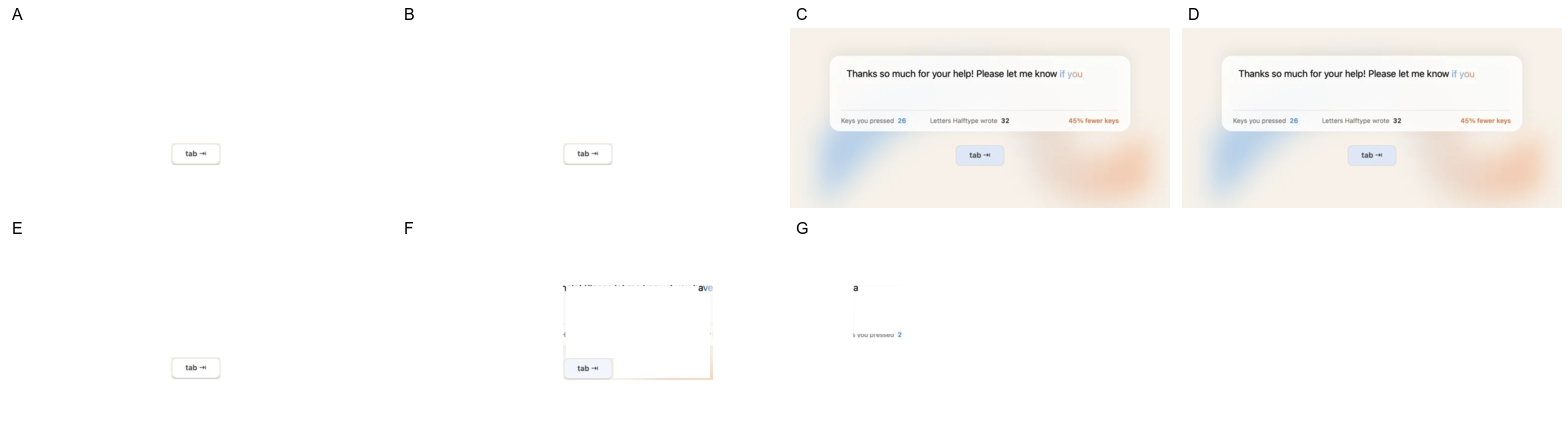
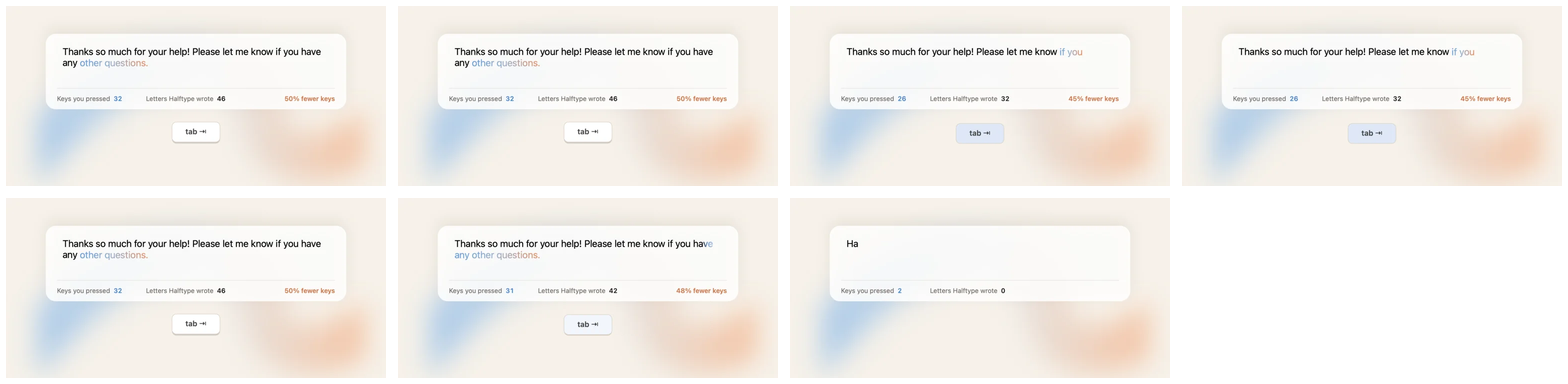
Design: README demo round 3, Tab and Shift-Tab mixed on D's timing (H, I, J): a long suggestion right to the end gets a look, then Shift-Tab and one glint; round 2's sheet redrawn from whole frames

diff --git a/Tests/e2e/E2E.swift b/Tests/e2e/E2E.swift
@@ -254,7 +254,7 @@ enum EndToEnd {
         var glass = false
     }
     /// The README demo's surroundings: the counts so far and whether Tab is down.
-    struct Stage { var keys: Int, wrote: Int, letters: Int, press: CGFloat, glint: CGFloat? = nil, taken: Int = 0 }
+    struct Stage { var keys: Int, wrote: Int, letters: Int, press: CGFloat, glint: CGFloat? = nil, taken: Int = 0, shift: Bool = false }
 
     /// `--shots <dir>`: a real text view with the real ghost view over it, placed by the real layout from what AX would report.
     static func shots(to dir: String) {
@@ -339,10 +339,10 @@ enum EndToEnd {
             Shot(name: name, typed: typed.isEmpty ? " " : typed, ghost: ghost, font: 19, size: CGSize(width: 560, height: 60), dark: false, stage: stage, glass: true)
         }
         // Delays in hundredths; browsers play anything under 2 as 10, so nothing goes below 3.
-        func draw(_ typed: String, _ ghost: String, _ keys: Int, _ wrote: Int, press: CGFloat = 0, glint: CGFloat? = nil, taken: Int = 0, _ delay: Int) {
+        func draw(_ typed: String, _ ghost: String, _ keys: Int, _ wrote: Int, press: CGFloat = 0, glint: CGFloat? = nil, taken: Int = 0, shift: Bool = false, _ delay: Int) {
             frame += 1
             let name = String(format: "en-%04d", frame)
-            onMain { render(shot(name, typed, ghost, Stage(keys: keys, wrote: wrote, letters: typed.count, press: press, glint: glint, taken: taken)), to: dir) }
+            onMain { render(shot(name, typed, ghost, Stage(keys: keys, wrote: wrote, letters: typed.count, press: press, glint: glint, taken: taken, shift: shift)), to: dir) }
             delays += "\(name).png \(delay)\n"
         }
         func drawable(_ typed: String, _ ghost: String) -> Bool { onMain { render(shot("", typed, ghost, Stage(keys: 0, wrote: 0, letters: 0, press: 0)), to: nil) } }
@@ -354,12 +354,15 @@ enum EndToEnd {
         // No pauses of its own: each frame shows the letter and, at once, what the app suggests after it; Tab comes at the typing rhythm.
         // The pace, for docs/design/readme-demo round 2: HALFTYPE_DEMO_PACE="type=4,tab=12,beat=0,after=0,glint=word,key=1" (hundredths;
         // glint word, burst or none). beat waits once a suggestion shows before the first Tab; after waits once a run of Tabs ends.
-        var pace = ["type": "4", "tab": "12", "beat": "0", "after": "0", "glint": "word", "key": "1"]
+        // Round 3: long=N takes a fresh suggestion of N words or more that is right to the end with Shift-Tab, after hold.
+        var pace = ["type": "4", "tab": "12", "beat": "0", "after": "0", "glint": "word", "key": "1", "long": "0", "hold": "40"]
         for pair in (ProcessInfo.processInfo.environment["HALFTYPE_DEMO_PACE"] ?? "").split(separator: ",") {
             let kv = pair.split(separator: "="); if kv.count == 2 { pace[String(kv[0])] = String(kv[1]) }
         }
         let typeDelay = Int(pace["type"]!)!, tabDelay = Int(pace["tab"]!)!, beat = Int(pace["beat"]!)!, after = Int(pace["after"]!)!, glintMode = pace["glint"]!
         showKey = pace["key"] != "0"
+        let long = Int(pace["long"]!)!, hold = Int(pace["hold"]!)!
+        showShift = long > 0
         for target in sentences {
             var text = "", keys = 0, wrote = 0
             var ghost = "", burst = 0
@@ -367,6 +370,21 @@ enum EndToEnd {
             while text.count < target.count {
                 let rest = target.dropFirst(text.count)
                 let word = ghost.isEmpty ? "" : Accept.nextWord(Ghost(remainder: ghost)).text
+                if long > 0, burst == 0, !ghost.isEmpty, rest.hasPrefix(ghost), ghost.split(separator: " ").count >= long {
+                    // A long suggestion, all of it right: a moment to read it, then Shift-Tab takes the lot, and one glint crosses it.
+                    draw(text, ghost, keys, wrote, hold)
+                    let all = ghost
+                    draw(text, ghost, keys, wrote, press: 0.5, shift: true, 3)
+                    text += all; keys += 1; wrote += all.count
+                    ghost = suggestion(text)
+                    let taken = (all as NSString).length
+                    draw(text, ghost, keys, wrote, press: 1, glint: 0.15, taken: taken, shift: true, 4)
+                    draw(text, ghost, keys, wrote, press: 0.4, glint: 0.4, taken: taken, shift: true, 4)
+                    draw(text, ghost, keys, wrote, glint: 0.65, taken: taken, 4)
+                    draw(text, ghost, keys, wrote, glint: 0.9, taken: taken, 4)
+                    if after > 0 { draw(text, ghost, keys, wrote, after) }
+                    continue
+                }
                 if !word.isEmpty, rest.hasPrefix(word) {
                     if burst == 0, beat > 0 { draw(text, ghost, keys, wrote, beat) }
                     text += word; keys += 1; wrote += word.count; ghost = String(ghost.dropFirst(word.count))
@@ -407,7 +425,7 @@ enum EndToEnd {
 
     /// Option F of docs/design/readme-demo in the home window's glass (docs/design/home-glass): cream, the blurred arch, a frosted panel for the
     /// field with the counts so far, and the tab key. A taken suggestion glints across its own words, as in the app.
-    nonisolated(unsafe) static var showKey = true
+    nonisolated(unsafe) static var showKey = true, showShift = false
     final class DemoStage: NSView {
         static let size = CGSize(width: 760, height: 360)
         static let panel = CGRect(x: 80, y: 56, width: 600, height: 150)
@@ -482,7 +500,10 @@ enum EndToEnd {
                 text.draw(at: CGPoint(x: rect.midX - text.size().width / 2, y: rect.midY - text.size().height / 2 + sink - 1))
             }
             let top = Self.panel.maxY + 26
-            if EndToEnd.showKey { key("tab ⇥", CGRect(x: bounds.midX - 48, y: top, width: 96, height: 40), stage.press) }
+            if EndToEnd.showShift {
+                key("⇧ shift", CGRect(x: bounds.midX - 112, y: top, width: 112, height: 40), stage.shift ? stage.press : 0)
+                key("tab ⇥", CGRect(x: bounds.midX + 8, y: top, width: 96, height: 40), stage.press)
+            } else if EndToEnd.showKey { key("tab ⇥", CGRect(x: bounds.midX - 48, y: top, width: 96, height: 40), stage.press) }
         }
     }
 

diff --git a/docs/design/readme-demo/round3.html b/docs/design/readme-demo/round3.html
@@ -1,0 +1,46 @@
+<!doctype html>
+<html lang="en">
+<head>
+<meta charset="utf-8">
+<meta name="viewport" content="width=device-width, initial-scale=1">
+<title>README Demo Keys</title>
+<style>
+  :root { --ink:#16181d; --sub:#6b6f78; --line:#e6e2da; }
+  * { box-sizing: border-box; }
+  body { margin: 0; background: #f4f1ec; color: var(--ink); font: 15px/1.5 -apple-system, BlinkMacSystemFont, sans-serif; }
+  main { max-width: 1600px; margin: 0 auto; padding: 24px 16px 60px; }
+  h1 { font-size: 22px; margin: 0 0 4px; }
+  .q { color: var(--sub); margin: 0 0 12px; }
+  .rec { background: #fff; border: 1px solid var(--line); border-radius: 12px; padding: 12px 16px; margin-bottom: 12px; }
+  .bar { position: sticky; top: 0; z-index: 2; padding: 8px 0; background: #f4f1ec; }
+  .bar button { font: inherit; padding: 6px 14px; border-radius: 8px; border: 1px solid #cfcac0; background: #fff; cursor: pointer; }
+  .grid { display: grid; grid-template-columns: repeat(auto-fill, minmax(min(100%, 460px), 1fr)); gap: 16px; }
+  .card { background: #fff; border: 1px solid var(--line); border-radius: 14px; overflow: hidden; }
+  .card header { padding: 10px 14px 2px; display: flex; gap: 10px; align-items: baseline; }
+  .letter { font-weight: 700; font-size: 19px; } .name { font-weight: 600; }
+  .card img { display: block; width: 100%; aspect-ratio: 760 / 360; }
+  .card p { margin: 0; padding: 8px 14px 14px; color: var(--sub); font-size: 13.5px; }
+  code { font-size: 12px; color: #8a7f72; }
+</style>
+</head>
+<body>
+<main>
+  <h1>README demo: Tab and Shift-Tab</h1>
+  <p class="q">Mixing the two keys on D's timing. John: "What if we mix tabs and shift tabs? So show using tab for some small suggestions, and then shift tab (after a pause) to show accepting a long suggestion?"</p>
+  <div class="rec"><b>Recommendation: H.</b> Quick Tabs for short suggestions, and a long one that is right to the end gets a 0.4 s look, then one Shift-Tab and one glint across the whole phrase. It saves the most keys of any we've tried (69% and 71%) and shows both keys in 12 s. I holds longer before Shift-Tab, which reads more clearly but drags; J also uses Shift-Tab for two-word suggestions, so it happens more often and Tab shows less. Every option is a real render: same model, sentences and counts.</div>
+  <div class="bar"><button id="replay">Replay all together</button></div>
+  <div class="grid">
+    <div class="card"><header><span class="letter">D</span><span class="name">Round 2's D: Tabs only</span></header><img src="round3/D.webp" alt="D"><p>For comparison: a short beat, quick Tabs, one glint per run. 56% and 64% fewer keys. 12 s.</p></div>
+    <div class="card"><header><span class="letter">H</span><span class="name">Shift-Tab for three words or more, 0.4 s look</span></header><img src="round3/H.webp" alt="H"><p>Short suggestions take quick Tabs; "et me know if you" and "ave any other questions." each take one Shift-Tab after a short look. 69% and 71%. 12 s. <code>long=3 hold=40</code></p></div>
+    <div class="card"><header><span class="letter">I</span><span class="name">H with a longer look</span></header><img src="round3/I.webp" alt="I"><p>0.7 s before each Shift-Tab and a longer rest after, so you can read the whole suggestion first. Clearest, but slower. 14 s. <code>long=3 hold=70 after=15</code></p></div>
+    <div class="card"><header><span class="letter">J</span><span class="name">Shift-Tab from two words</span></header><img src="round3/J.webp" alt="J"><p>Shift-Tab whenever two words or more are right, so it's the main move and Tab is rarer. 69% and 74%. 12 s. <code>long=2 hold=45</code></p></div>
+  </div>
+</main>
+<script>
+document.getElementById("replay").onclick = () => {
+  const t = Date.now();
+  document.querySelectorAll(".card img").forEach((img) => { img.src = img.src.split("?")[0] + "?" + t; });
+};
+</script>
+</body>
+</html>

diff --git a/docs/design/readme-demo/README.md b/docs/design/readme-demo/README.md
@@ -21,3 +21,12 @@ John, on the glass demo with rapid Tabs (A): "Yikes that looks messy. Give me so
 - B–G also keep a suggestion while the typing matches it, as the app does; A asked the model again after every letter, so suggestions jumped.
 
 Recommendation: D (`beat=12,tab=14,after=8,glint=burst`).
+
+## Round 3: Tab and Shift-Tab
+
+John: "What if we mix tabs and shift tabs? So show using tab for some small suggestions, and then shift tab (after a pause) to show accepting a long suggestion?"
+
+- `round3.html`: D from round 2 for comparison, and H, I, J (`round3/*.webp`): on D's timing, a fresh suggestion of `long` words or more that is right to the end gets a `hold`, then Shift-Tab and one glint across it (`HALFTYPE_DEMO_PACE` gains `long` and `hold`; the shift key shows when `long` is set).
+- `round3.png`: one frame of each.
+
+Recommendation: H (`beat=12,tab=14,after=8,glint=burst,long=3,hold=40`).
